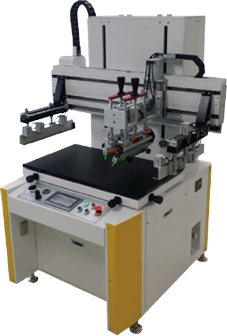
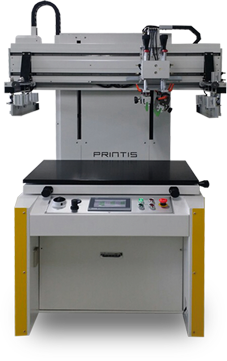
메인제품 이미지교체, css 위치 수정

diff --git a/src/css/main.scss b/src/css/main.scss
@@ -107,6 +107,11 @@
         }
         .fadeInUp {
           height: 100%;
+          a {
+            width: 100%;
+            height: 100%;
+            display: block;
+          }
         }
         .printThumbs {
           position: absolute;
@@ -114,7 +119,7 @@
           transition: 0.5s;
         }
         #print_0 {
-          right: -18%;
+          right: -40%;
           img {
             width:100%;
             min-width: 227px;
@@ -131,11 +136,11 @@
           right: -32%;
           img {
             width:100%;
-            min-width: 277px;
+            min-width: 227px;
           }
         }
         #print_3 {
-          right: -17%;
+          right: -35%;
           img {
             width:100%;
             min-width: 244px;
@@ -144,7 +149,7 @@
       }
       #printlists_0:hover {
         .printThumbs {
-          right: 20%;
+          right: 7%;
         }
       }
       #printlists_1:hover {
@@ -193,6 +198,11 @@
         transition: 0.5s;
         .fadeInUp {
           height: 100%;
+          a {
+            display: block;
+            width: 100%;
+            height:100%;
+          }
         }
         .productTitle {
           h2 {
@@ -211,14 +221,14 @@
           transition: 0.5s;
         }
         #auto_0 {
-          right: -15%;
+          right: -30%;
           img {
             width:100%;
             min-width: 316px;
           }    
         }
         #auto_1 {
-          right: -9%;
+          right: -15%;
           img {
             width:100%;
             min-width: 226px;
@@ -234,17 +244,17 @@
       }
       #autolists_0:hover {
         .autoThumbs {
-          right: 10%;
+          right: 5%;
         }
       }
       #autolists_1:hover {
         .autoThumbs {
-          right: 30%;
+          right: 20%;
         }
       }
       #autolists_2:hover {
         .autoThumbs {
-          right: 10%;
+          right: 3%;
         }
       }
       .active {

diff --git a/README.md b/README.md
@@ -15,3 +15,10 @@
 
 # 2019-12-19
 1. 게시판 글보기/리스트 및 제품 보기/리스트 중첩 라우팅 및 렌더링 최적화
+2. 메인페이지 제품 이미지 교체
+3. 메인페이지 제품 이미지 위치 수정
+4. 헤더, 풋터 노란색 제거 -> 흰색으로 변경
+- 회사소개 -> ci 다운로드 추가 - 진행중
+- 회사소개 -> 프린티스 홍보영상 추가 (CI소개 뒤에) - 대기
+- 메인 제품 마우스 오버시 노란색으로 바뀌는 효과 제거 - 대기 
+- 헤더 프린티스 로고와 메뉴 분리 (두줄로 변경) - 대기
